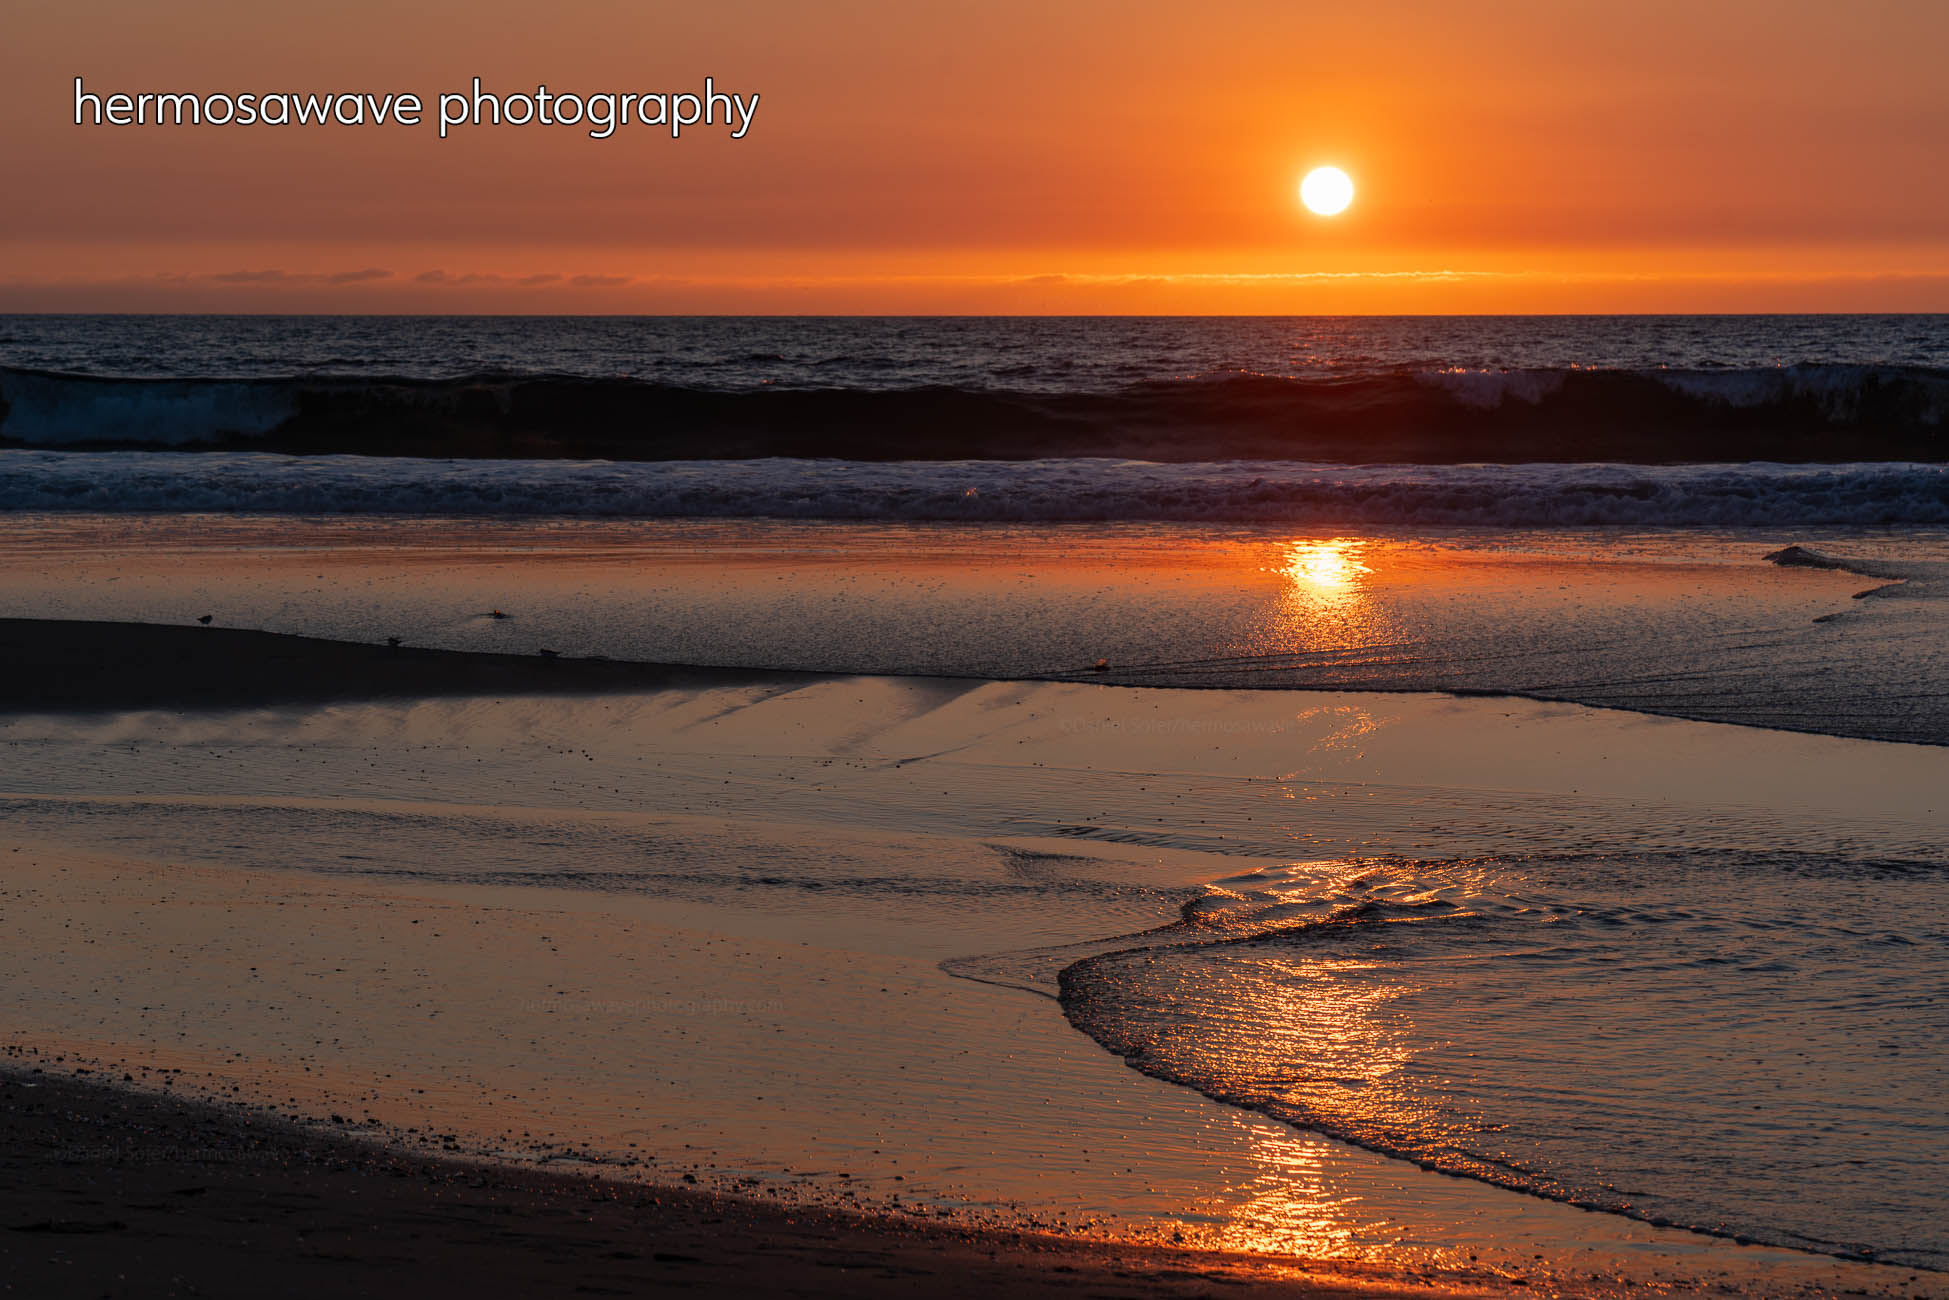
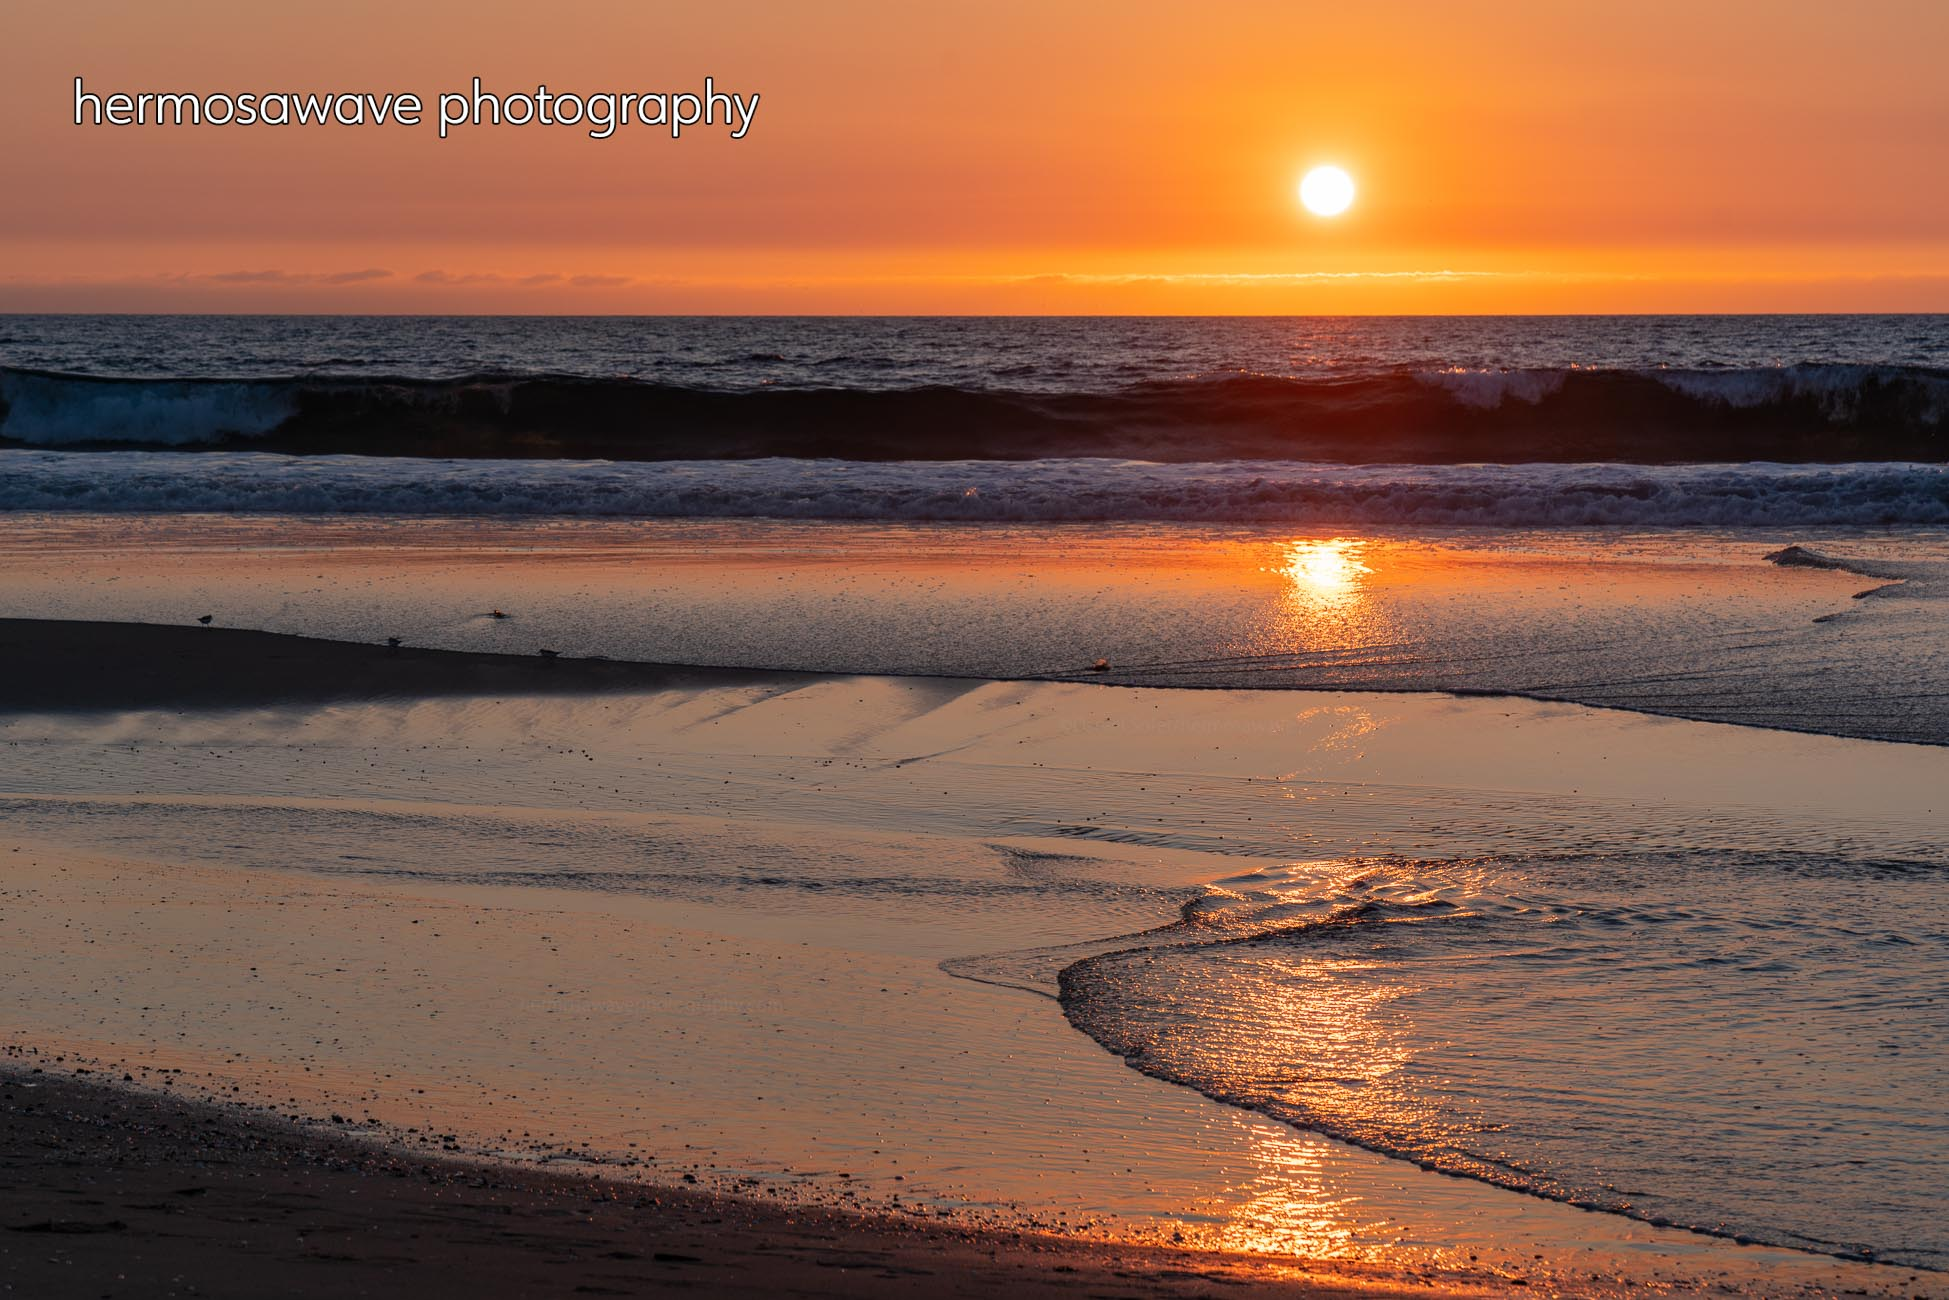
Brighter photo

diff --git a/index.html b/index.html
@@ -77,7 +77,7 @@ font-family: ryo-gothic-plusn, sans-serif; (200, 400, 700)
 			 <a href="/latest/">
 				 
 <!-- REPLACEMENT IMAGE GOES HERE---  -->
-				 <img id="img1"  src=" /assets/images/2022/2201_A7R04465.jpg" />
+				 <img id="img1"  src=" /assets/images/2022/2201_A7R04519.jpg" />
 			 </a>
 		</div>
 	 
